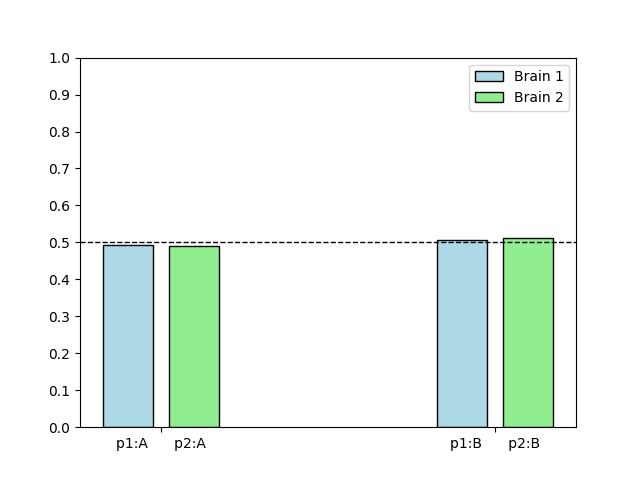
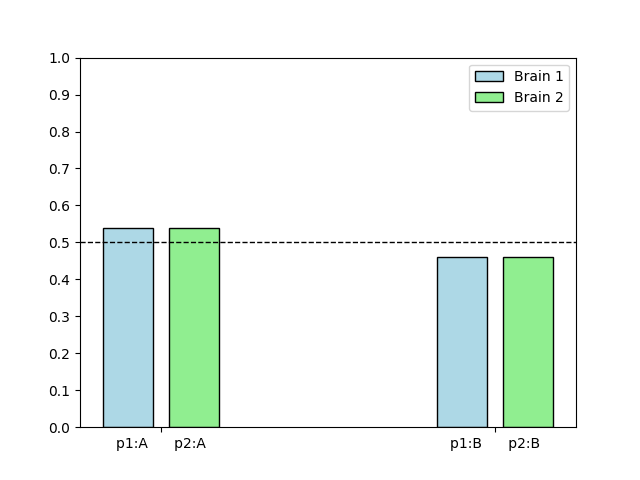
probability_braingame plot

Changed region(s): [[0.6562, 0.4688, 0.875, 0.5625], [0.1562, 0.4688, 0.3438, 0.5312]]

diff --git a/online_learning.py b/online_learning.py
@@ -86,13 +86,24 @@ def brain_game_1(rounds=500):
     brain2 = Brain(p = 0.1, cap_size = 200, beta = 0.1, no_classes = 2, n = 2000, in_n = 1000)
     b1choices = np.zeros((brain1.no_classes, rounds))
     b2choices = np.zeros((brain2.no_classes, rounds))
-
+    
+    freq_a_b1 = []
+    freq_b_b1 = []
+    
+    prob_array_a = []
+    prob_array_b = []
     for i in range(rounds):
-        in_class_activations1 = brain1.random_activations()
-        in_class_activations2 = brain2.random_activations()
-        
-        activations_t_1_1 = brain1._get_activations(in_class_activations1) 
-        activations_t_1_2 = brain2._get_activations(in_class_activations2)
+        choices = []
+        for _ in range(1):
+            in_class_activations1 = brain1.random_activations()
+            in_class_activations2 = brain2.random_activations()
+            
+            activations_t_1_1 = brain1._get_activations(in_class_activations1) 
+            activations_t_1_2 = brain2._get_activations(in_class_activations2)
+            choices.append(brain1.get_choice(activations_t_1_1))
+            
+        prob_array_b.append(sum(choices) / len(choices))
+        prob_array_a.append(1 - prob_array_b[i])
         
         b1choice = brain1.get_choice(activations_t_1_1)
         b1choices[b1choice, i] = 1
@@ -110,6 +121,11 @@ def brain_game_1(rounds=500):
             brain1.update_weights(in_class_activations1, activations_t_1_1, b1choice, negative=True)
 
             #b2choices[b2choice, i] = 0.7
+            
+    
+        freq_a_b1.append(np.sum(b1choices[0]) / (i + 1))
+        freq_b_b1.append(1 - freq_a_b1[i])
+    
     
     b1_a = np.sum(b1choices[0]) / len(b1choices[0])
     b1_b = np.sum(b1choices[1]) / len(b1choices[1])
@@ -158,7 +174,21 @@ def brain_game_1(rounds=500):
     ax[2].set_xlabel("Time Steps", fontsize=25)
     ax[2].set_ylabel("Choices", fontsize=25)
 
+
     fig.savefig("plots/braingames.png")
+    
+    fig, ax = plt.subplots()
+    ax.plot(freq_a_b1, color="black", label="Frequency of A in Brain 1")
+    ax.plot(freq_b_b1, color="blue", label="Frequency of B in Brain 1")
+    fig.savefig("plots/frequency_braingame.png")
+    
+    fig, ax = plt.subplots()
+    plt.xticks([0, 10, 20, 30, 40, 50, 60, 70, 80, 90, 100])
+    ax.plot(prob_array_a, color="black")
+    ax.set_xlabel("Time Steps")
+    ax.set_ylabel("Probability")
+    # ax.plot(prob_array_b, color="blue", label="Probability of B in Brain 1")
+    fig.savefig("plots/probability_braingame.png")
 
 def brain_game_2(rounds):
     '''
@@ -264,4 +294,4 @@ if __name__ == '__main__':
     plt.close()
     # binary_training()
     # binary_training_test()
-    two_brains_binary_game(rounds=1000, version=1)
+    two_brains_binary_game(rounds=150, version=1)

diff --git a/plots.py b/plots.py
@@ -153,7 +153,7 @@ def benchmark_param(
     
     return items[np.argmax(test_accuracies)]
 
-def overlap_plots(brain, no_data_items=1000):
+def overlap_plots(brain, no_data_items=100):
     (X_train, y_train), (X_test, y_test) = keras.datasets.mnist.load_data()    
     y_train = y_train[:no_data_items]
         
@@ -165,10 +165,10 @@ def overlap_plots(brain, no_data_items=1000):
     input = np.array([x.flatten() for x in X_train])
     input_test = np.array([p.flatten() for p in X_test])
     
-    brain.section_training(input, no_rounds=no_of_rounds)
+    brain.training(input, no_rounds=no_of_rounds)
     brain.predict(input_test[0].flatten())
     
-    fig2, ax = plt.subplots()
+    fig, ax = plt.subplots()
     def overlap(g, h):
         v = np.sum([a == 1 and b == 1 for (a, b) in zip(brain.y[g], brain.y[h])])
         return v / brain.cap_size
@@ -186,9 +186,9 @@ def overlap_plots(brain, no_data_items=1000):
         for j in range(10):
             ax.text(i,j, round(overlap_plot_matrix[i,j], 2), va='center', ha='center')
 
-    ax.imshow(overlap_plot_matrix, cmap='viridis',)
-    ax.set_title('Overlap between classes')
-    fig2.savefig('plots/overlap.png')
+    plt.imshow(overlap_plot_matrix, cmap='viridis', interpolation='nearest')
+    plt.title('Overlap between classes')
+    plt.savefig('plots/overlap.png')
 
 if __name__ == '__main__':
     start = time.time()
@@ -236,8 +236,8 @@ if __name__ == '__main__':
     # )
     
     overlap_plots(
-        Brain(no_classes=10, cap_size=1000, n=10000, in_n=784*4, beta=1),
-        no_data_items=1000
+        Brain(no_classes=10, cap_size=240, n=1000, in_n=784*4, beta=1),
+        no_data_items=100
     )
 
     # assemblies_and_weights()
